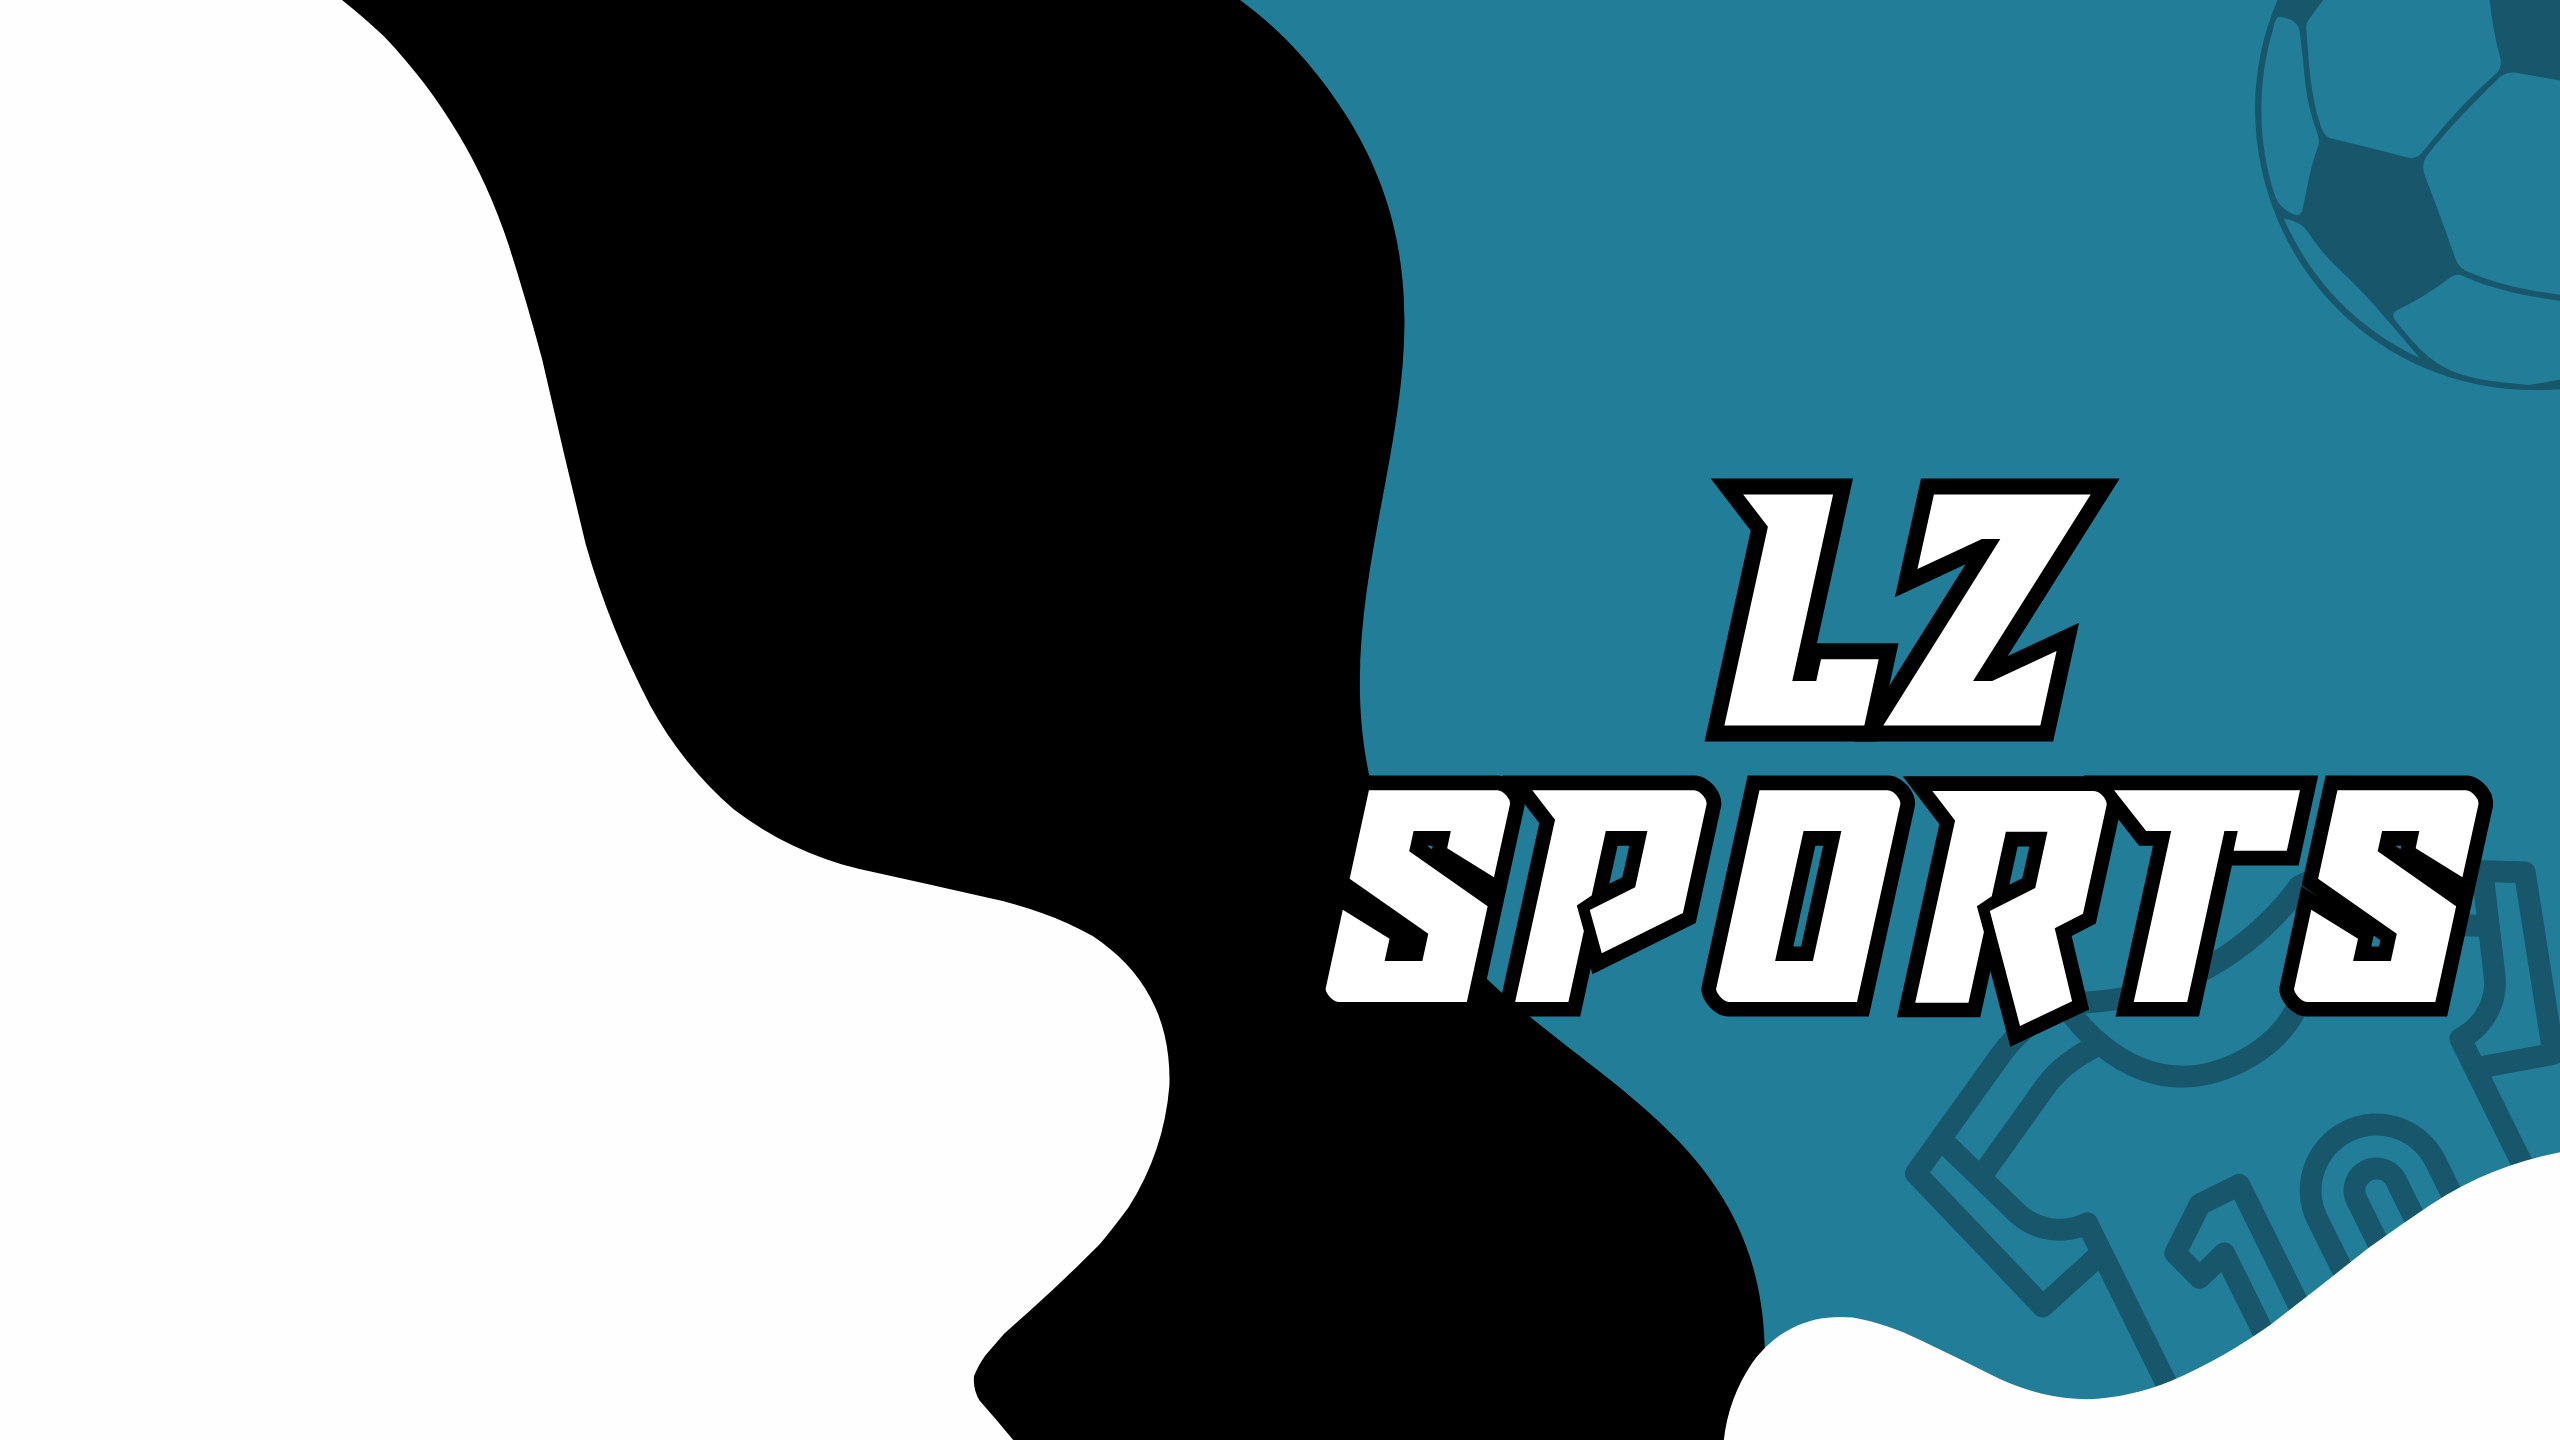
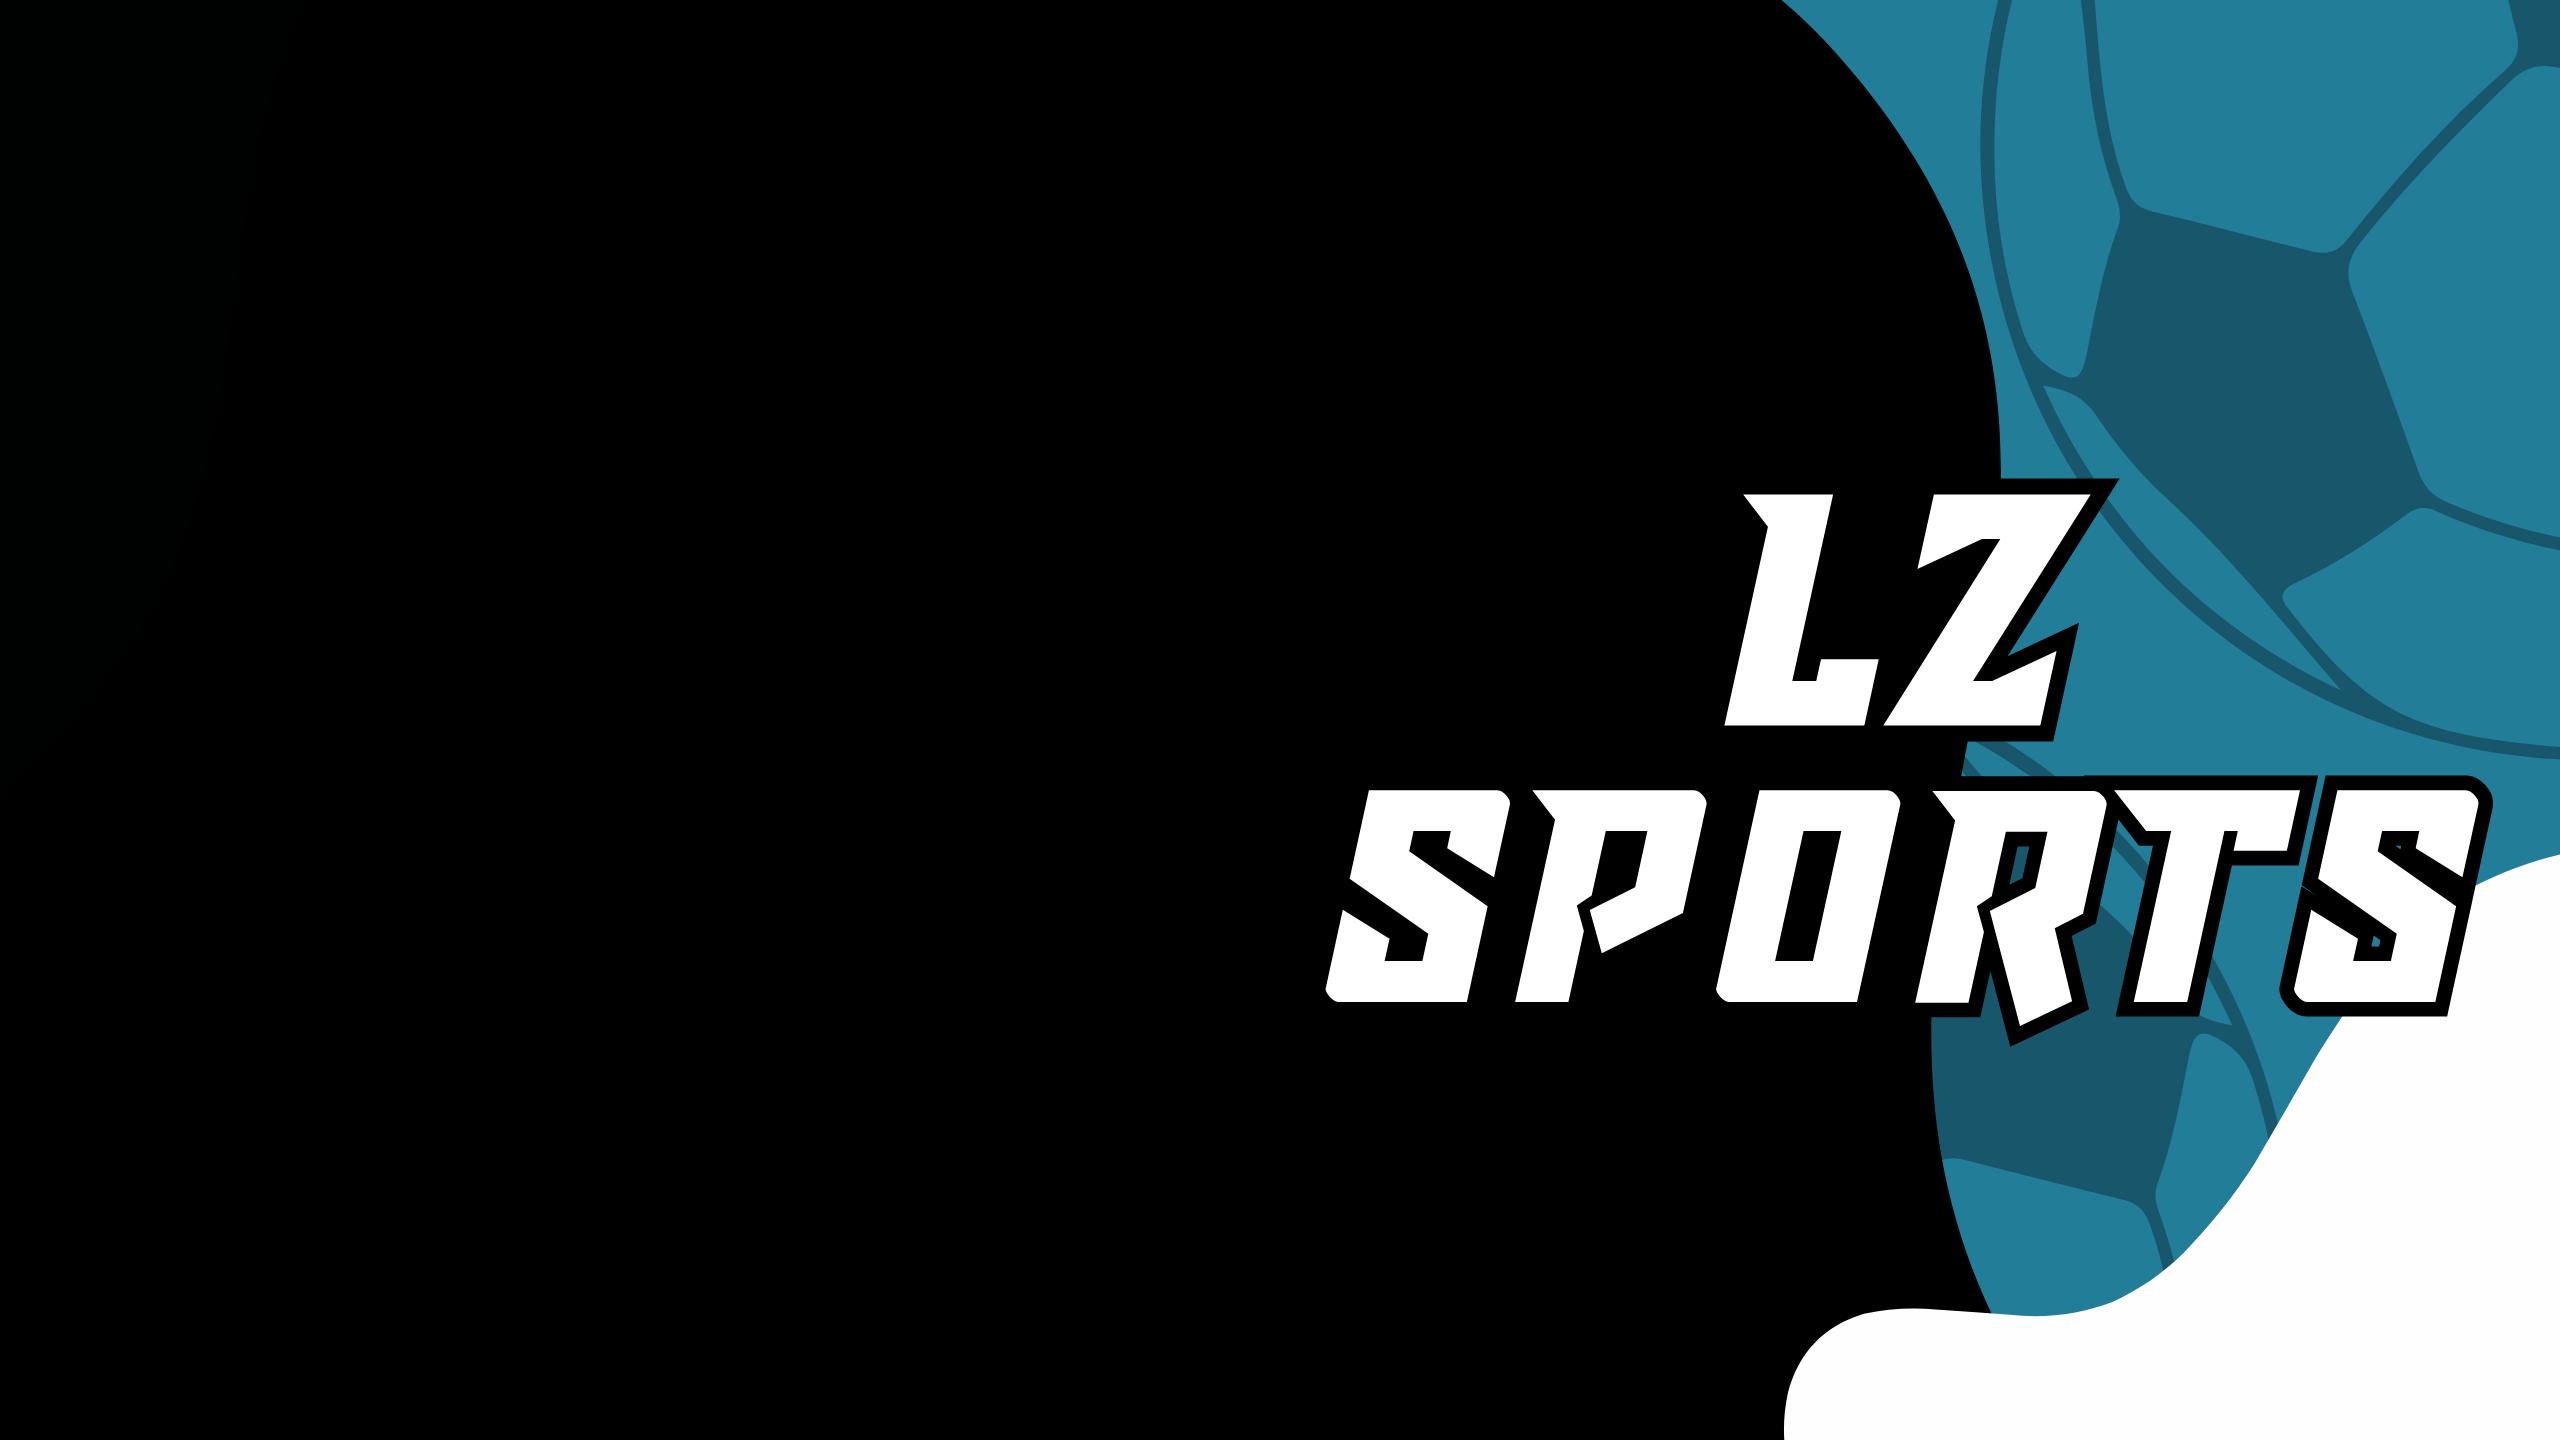
ajustes login

diff --git a/app/static/css/login.css b/app/static/css/login.css
@@ -10,9 +10,7 @@ body { margin: 0; font-family: Arial, Helvetica, sans-serif; }
 /* CARD ESQUERDO (branco com cantos arredondados) */
 .login-card{
   width: min(863px, 46vw);
-  background: #fff;
-  border-top-right-radius: 60px;
-  border-bottom-right-radius: 60px;
+  background: #227d99;
   padding: clamp(20px, 3vw, 44px);
   display: flex;
   flex-direction: column;
@@ -53,12 +51,13 @@ body { margin: 0; font-family: Arial, Helvetica, sans-serif; }
 /* Botão */
 .login-btn{
   height: 46px;
-  border: 2px solid #222;
+  border: 2px solid #ffffff;
   border-radius: 6px;
-  background: #1f7f97;
+  background: #000;
   font-size: 18px;
   font-weight: 700;
   cursor: pointer;
+  color: #ffffff;
 }
 
 .login-btn:hover{ filter: brightness(.95); }
@@ -74,7 +73,7 @@ body { margin: 0; font-family: Arial, Helvetica, sans-serif; }
 .login-link{
   color: #000;
   text-decoration: none;
-  font-size: 16px;
+  font-size: 20px;
 }
 
 .login-link:hover{ text-decoration: underline; }
